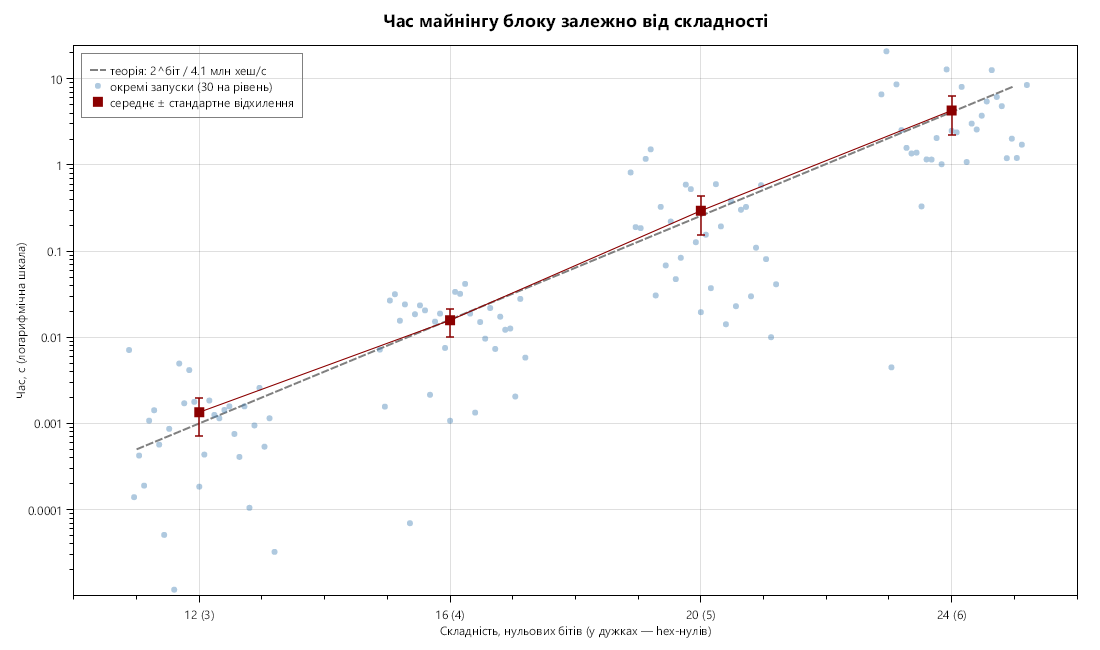
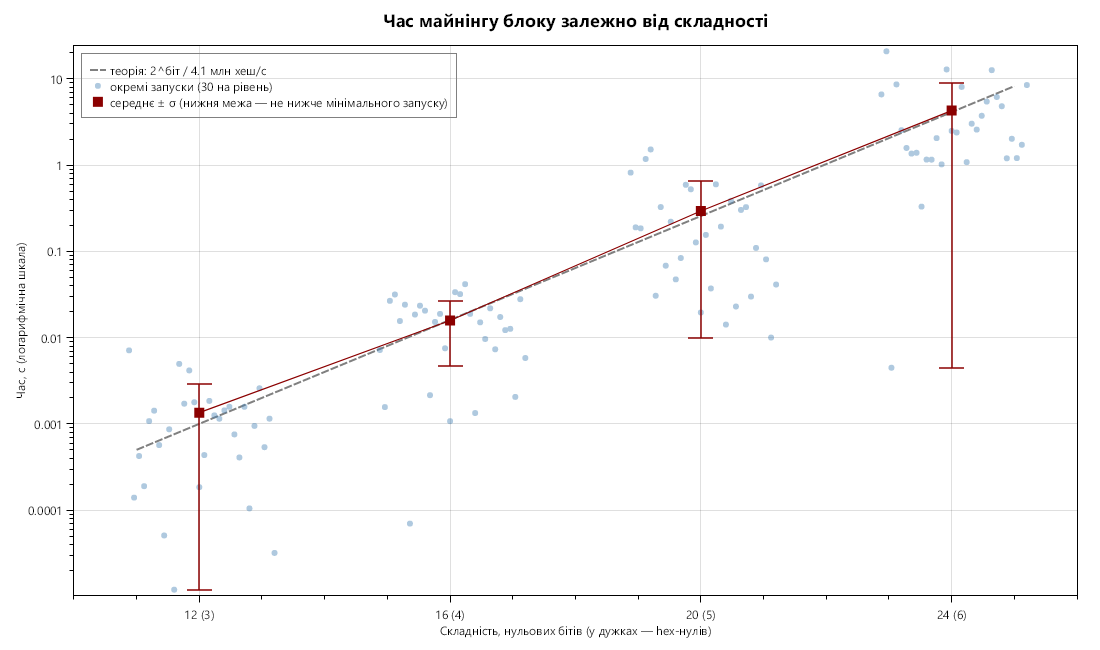
Графік складності: правильний розкид ±σ і режим replot
ScatterErrorSeries в OxyPlot відкладав лише σ/2 в кожен бік, тому розкид
малюється вручну; нижня межа на лог. шкалі не нижча за найшвидший запуск.
Режим replot перебудовує графік з наявного difficulty_runs.csv без нового майнінгу.

diff --git a/src/MiniChain.Experiment/Program.cs b/src/MiniChain.Experiment/Program.cs
@@ -9,6 +9,7 @@ using OxyPlot.Series;
 // Експерименти:
 //   dotnet run -c Release --project src/MiniChain.Experiment -- difficulty [runs] [bits...]
 //   dotnet run -c Release --project src/MiniChain.Experiment -- adjust [blocks] [targetMs]
+//   dotnet run -c Release --project src/MiniChain.Experiment -- replot      (графік з наявного difficulty_runs.csv)
 CultureInfo.DefaultThreadCurrentCulture = CultureInfo.InvariantCulture;
 Console.OutputEncoding = System.Text.Encoding.UTF8;
 var mode = args.FirstOrDefault() ?? "difficulty";
@@ -17,7 +18,8 @@ Directory.CreateDirectory(outDir);
 
 if (mode == "difficulty") DifficultyExperiment();
 else if (mode == "adjust") AdjustExperiment();
-else Console.WriteLine("режими: difficulty | adjust");
+else if (mode == "replot") Replot();
+else Console.WriteLine("режими: difficulty | adjust | replot");
 
 // ---------------------------------------------------------------- 1. час майнінгу від складності
 void DifficultyExperiment()
@@ -47,7 +49,21 @@ void DifficultyExperiment()
 
     File.WriteAllLines(Path.Combine(outDir, "difficulty_runs.csv"),
         rows.Select(r => $"{r.bits},{r.run},{r.sec:F6},{r.attempts}").Prepend("bits,run,seconds,attempts"));
+    SummarizeAndPlot(rows, levels, runs);
+}
 
+// перебудувати таблицю і графік з уже записаного difficulty_runs.csv, не перемайнюючи
+void Replot()
+{
+    var rows = File.ReadAllLines(Path.Combine(outDir, "difficulty_runs.csv")).Skip(1)
+        .Select(l => l.Split(','))
+        .Select(f => (bits: int.Parse(f[0]), run: int.Parse(f[1]), sec: double.Parse(f[2], CultureInfo.InvariantCulture), attempts: long.Parse(f[3])))
+        .ToList();
+    SummarizeAndPlot(rows, rows.Select(r => r.bits).Distinct().ToArray(), rows.Max(r => r.run));
+}
+
+void SummarizeAndPlot(List<(int bits, int run, double sec, long attempts)> rows, int[] levels, int runs)
+{
     double rate = rows.Sum(r => r.attempts) / rows.Sum(r => r.sec);   // хешів за секунду
     var summary = levels.Select(b =>
     {
@@ -88,13 +104,26 @@ void DifficultyExperiment()
     });
     var runsSeries = new ScatterSeries { Title = $"окремі запуски ({runs} на рівень)", MarkerType = MarkerType.Circle, MarkerSize = 3, MarkerFill = OxyColor.FromAColor(110, OxyColors.SteelBlue) };
     foreach (var r in rows) runsSeries.Points.Add(new ScatterPoint(r.bits + (r.run - runs / 2.0) * 0.08, Math.Max(r.sec, 1e-5)));
-    var meanSeries = new ScatterErrorSeries { Title = "середнє ± стандартне відхилення", MarkerType = MarkerType.Square, MarkerSize = 5, MarkerFill = OxyColors.DarkRed, ErrorBarColor = OxyColors.DarkRed, ErrorBarStopWidth = 4, ErrorBarStrokeThickness = 1.5 };
-    foreach (var s in summary) meanSeries.Points.Add(new ScatterErrorPoint(s.bits, s.mean, 0, Math.Min(s.sd, s.mean * 0.95)));
+    // Розкид малюємо вручну: ScatterErrorSeries в OxyPlot відкладає лише ErrorY/2 в кожен бік.
+    // Час майнінгу розподілений експоненційно (σ ≈ середнє), тому mean − σ часто ≤ 0, а на лог. шкалі
+    // таке значення не показати — нижню межу обмежуємо найшвидшим запуском цього рівня.
+    var meanSeries = new ScatterSeries { Title = "середнє ± σ (нижня межа — не нижче мінімального запуску)", MarkerType = MarkerType.Square, MarkerSize = 5, MarkerFill = OxyColors.DarkRed };
+    var errorBars = new LineSeries { Color = OxyColors.DarkRed, StrokeThickness = 1.5 };
+    foreach (var s in summary)
+    {
+        meanSeries.Points.Add(new ScatterPoint(s.bits, s.mean));
+        double lo = Math.Max(s.mean - s.sd, Math.Max(s.min, 1e-5)), hi = s.mean + s.sd;
+        errorBars.Points.Add(new DataPoint(s.bits, lo)); errorBars.Points.Add(new DataPoint(s.bits, hi)); errorBars.Points.Add(DataPoint.Undefined);
+        foreach (var y in new[] { lo, hi })
+        {
+            errorBars.Points.Add(new DataPoint(s.bits - 0.2, y)); errorBars.Points.Add(new DataPoint(s.bits + 0.2, y)); errorBars.Points.Add(DataPoint.Undefined);
+        }
+    }
     var meanLine = new LineSeries { Color = OxyColors.DarkRed, StrokeThickness = 1.2, LineStyle = LineStyle.Solid };
     foreach (var s in summary) meanLine.Points.Add(new DataPoint(s.bits, s.mean));
     var theory = new LineSeries { Title = $"теорія: 2^біт / {rate / 1e6:F1} млн хеш/с", Color = OxyColors.Gray, LineStyle = LineStyle.Dash };
     for (double b = levels.Min() - 1; b <= levels.Max() + 1; b += 0.5) theory.Points.Add(new DataPoint(b, Math.Pow(2, b) / rate));
-    model.Series.Add(theory); model.Series.Add(runsSeries); model.Series.Add(meanLine); model.Series.Add(meanSeries);
+    model.Series.Add(theory); model.Series.Add(runsSeries); model.Series.Add(meanLine); model.Series.Add(errorBars); model.Series.Add(meanSeries);
     var png = Path.Combine(outDir, "difficulty_plot.png");
     OxyPlot.SkiaSharp.PngExporter.Export(model, png, 1100, 650, 96);
     Console.WriteLine($"\nCSV і графік: {outDir}");
